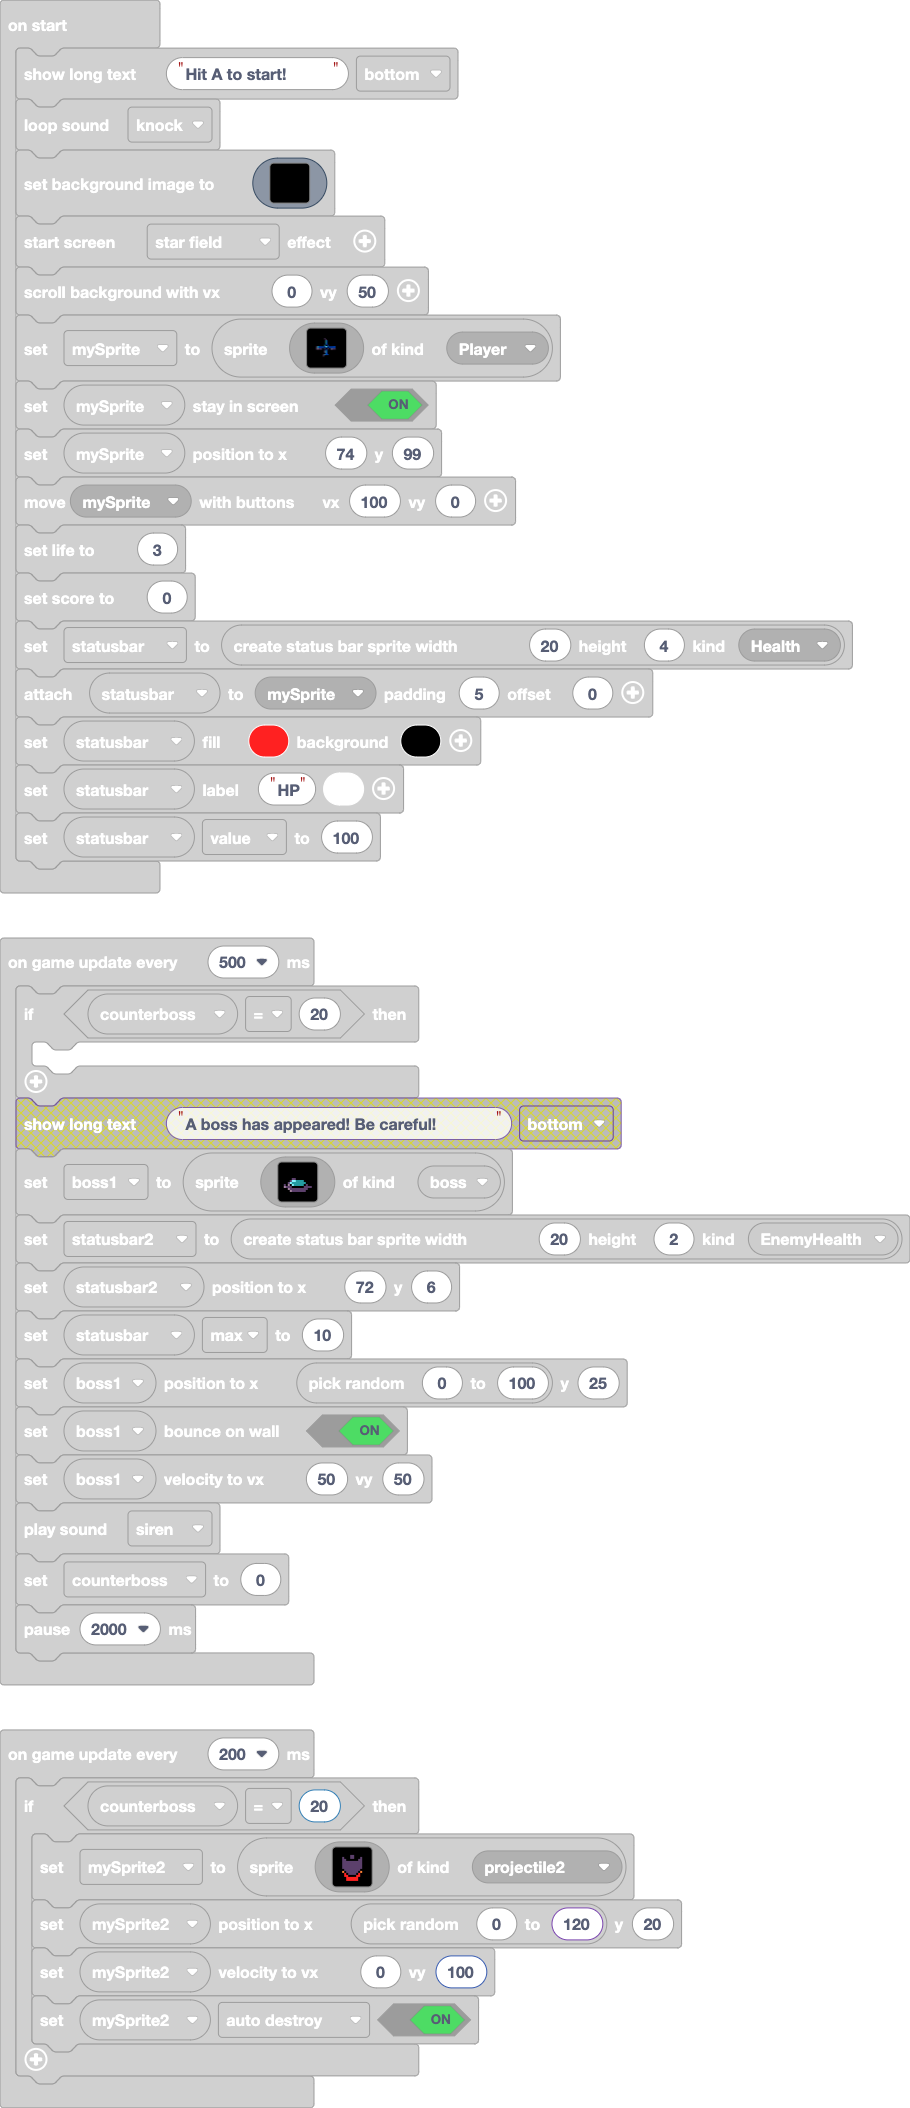
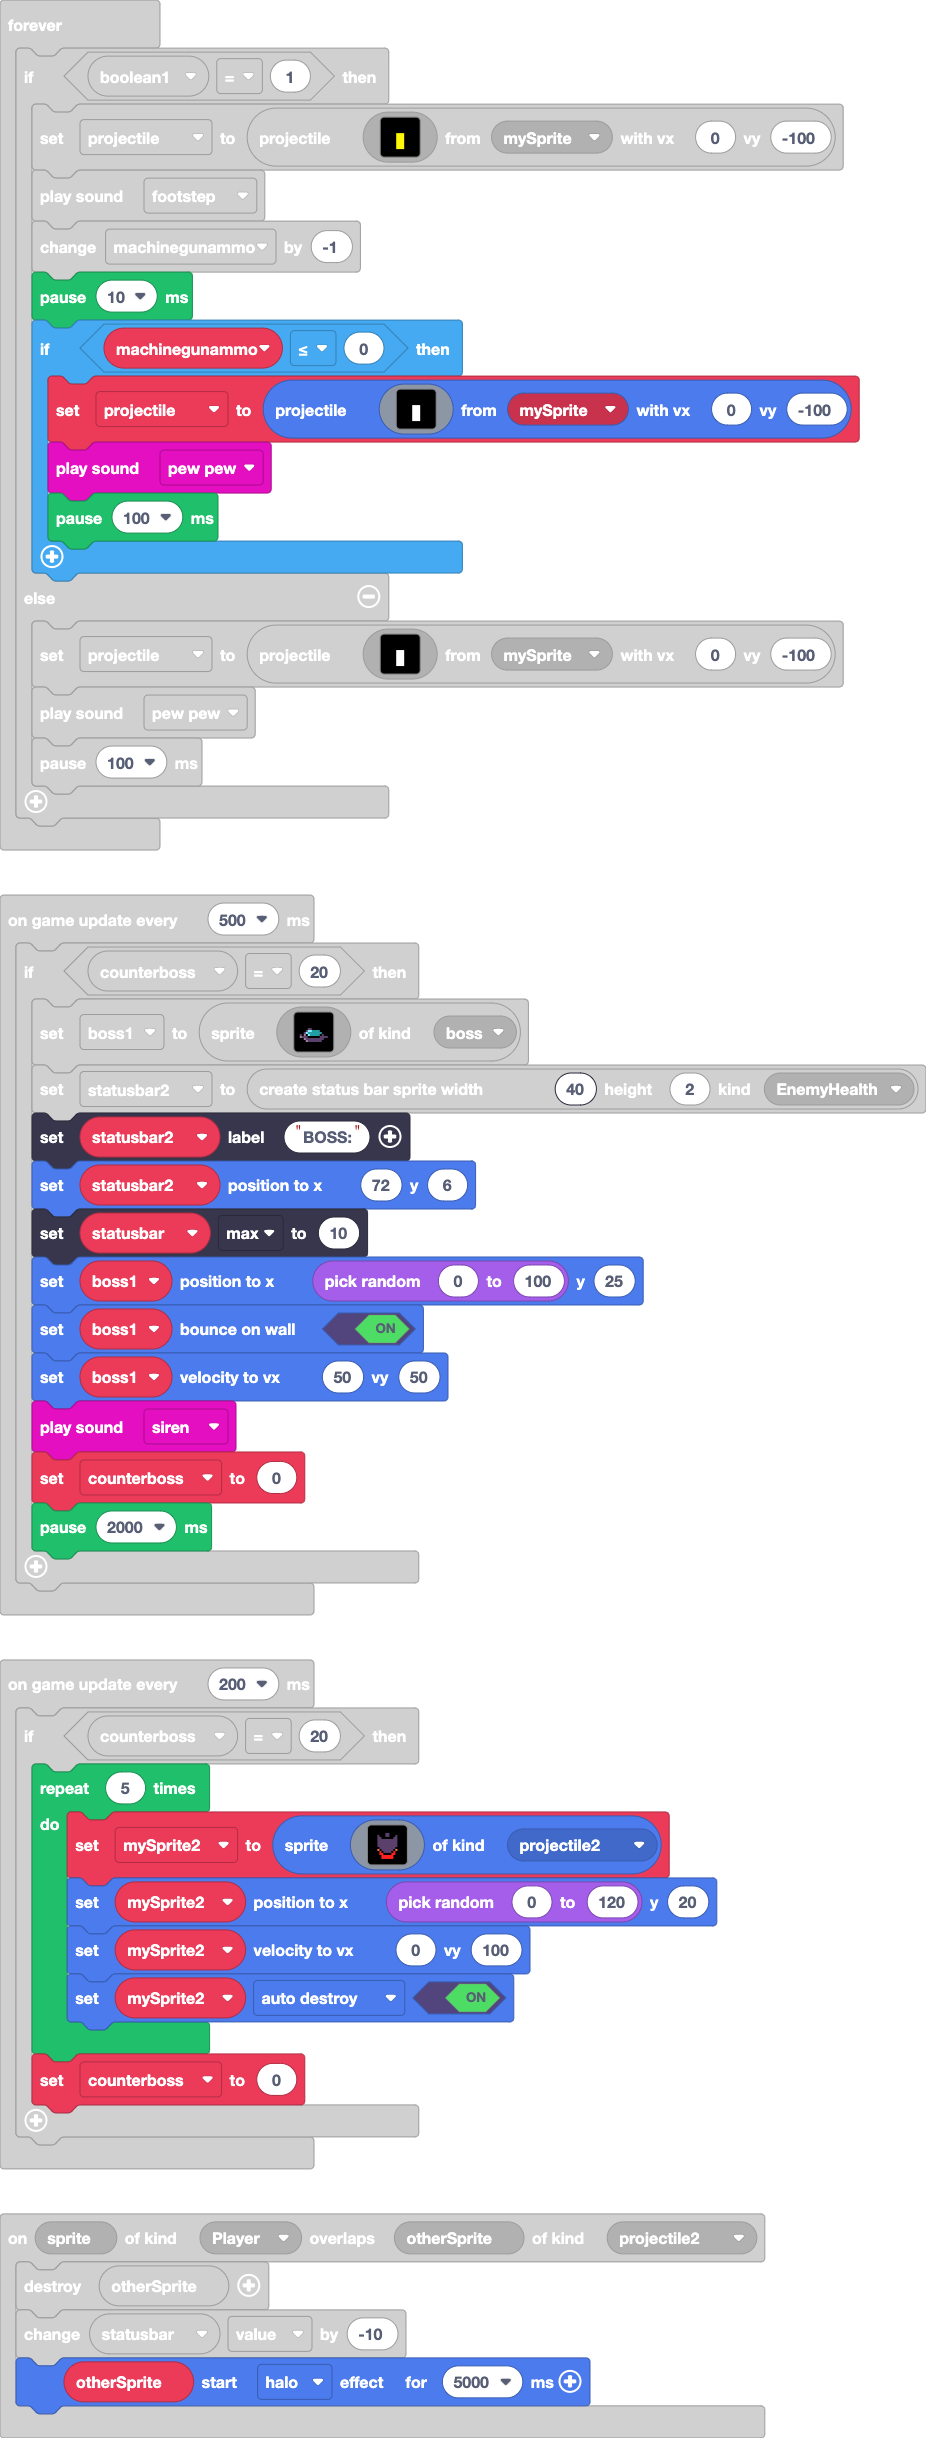
debug and de-lag

diff --git a/main.ts b/main.ts
@@ -21,7 +21,7 @@ statusbars.onZero(StatusBarKind.Health, function (status) {
 sprites.onOverlap(SpriteKind.Player, SpriteKind.projectile2, function (sprite, otherSprite) {
     otherSprite.destroy()
     statusbar.value += -10
-    boss1.startEffect(effects.halo, 5000)
+    otherSprite.startEffect(effects.halo, 5000)
 })
 sprites.onOverlap(SpriteKind.Enemy, SpriteKind.Player, function (sprite, otherSprite) {
     otherSprite.startEffect(effects.fire, 100)
@@ -247,6 +247,7 @@ forever(function () {
             `, mySprite, 0, -100)
         music.footstep.play()
         machinegunammo += -1
+        pause(10)
         if (machinegunammo <= 0) {
             projectile = sprites.createProjectileFromSprite(img`
                 . . . . . . . . 
@@ -287,7 +288,8 @@ forever(function () {
 game.onUpdateInterval(500, function () {
     if (counterboss == 20) {
         boss1 = sprites.create(assets.image`Boss`, SpriteKind.boss)
-        statusbar2 = statusbars.create(20, 2, StatusBarKind.EnemyHealth)
+        statusbar2 = statusbars.create(40, 2, StatusBarKind.EnemyHealth)
+        statusbar2.setLabel("BOSS:")
         statusbar2.setPosition(72, 6)
         statusbar.max = 10
         boss1.setPosition(randint(0, 100), 25)
@@ -300,27 +302,30 @@ game.onUpdateInterval(500, function () {
 })
 game.onUpdateInterval(200, function () {
     if (counterboss == 20) {
-        mySprite2 = sprites.create(img`
-            . . . . . . . . . . . . . . . . 
-            . f f f . . f f f f . . f f f . 
-            . f f f f . f c c f . f f f f . 
-            . . f c f f f c c f f f c f . . 
-            . . f c c f f f f f f c c f . . 
-            . . f c c c c c c c c c c f . . 
-            . . f c c c c c c c c c c f . . 
-            . . f c c c c c c c c c c f . . 
-            . . f c c c c c c c c c c f . . 
-            . . f f c c c c c c c c f f . . 
-            . . f 4 f c c c c c c f 4 f . . 
-            . . . f 2 f c c c c f 2 f . . . 
-            . . . f 2 2 f f f f 2 2 f . . . 
-            . . . . f 2 2 2 2 2 2 f . . . . 
-            . . . . f 2 2 2 2 2 2 f . . . . 
-            . . . . . f f f f f f . . . . . 
-            `, SpriteKind.projectile2)
-        mySprite2.setPosition(randint(0, 120), 20)
-        mySprite2.setVelocity(0, 100)
-        mySprite2.setFlag(SpriteFlag.AutoDestroy, true)
+        for (let index = 0; index < 5; index++) {
+            mySprite2 = sprites.create(img`
+                . . . . . . . . . . . . . . . . 
+                . f f f . . f f f f . . f f f . 
+                . f f f f . f c c f . f f f f . 
+                . . f c f f f c c f f f c f . . 
+                . . f c c f f f f f f c c f . . 
+                . . f c c c c c c c c c c f . . 
+                . . f c c c c c c c c c c f . . 
+                . . f c c c c c c c c c c f . . 
+                . . f c c c c c c c c c c f . . 
+                . . f f c c c c c c c c f f . . 
+                . . f 4 f c c c c c c f 4 f . . 
+                . . . f 2 f c c c c f 2 f . . . 
+                . . . f 2 2 f f f f 2 2 f . . . 
+                . . . . f 2 2 2 2 2 2 f . . . . 
+                . . . . f 2 2 2 2 2 2 f . . . . 
+                . . . . . f f f f f f . . . . . 
+                `, SpriteKind.projectile2)
+            mySprite2.setPosition(randint(0, 120), 20)
+            mySprite2.setVelocity(0, 100)
+            mySprite2.setFlag(SpriteFlag.AutoDestroy, true)
+        }
+        counterboss = 0
     }
 })
 game.onUpdateInterval(10000, function () {
